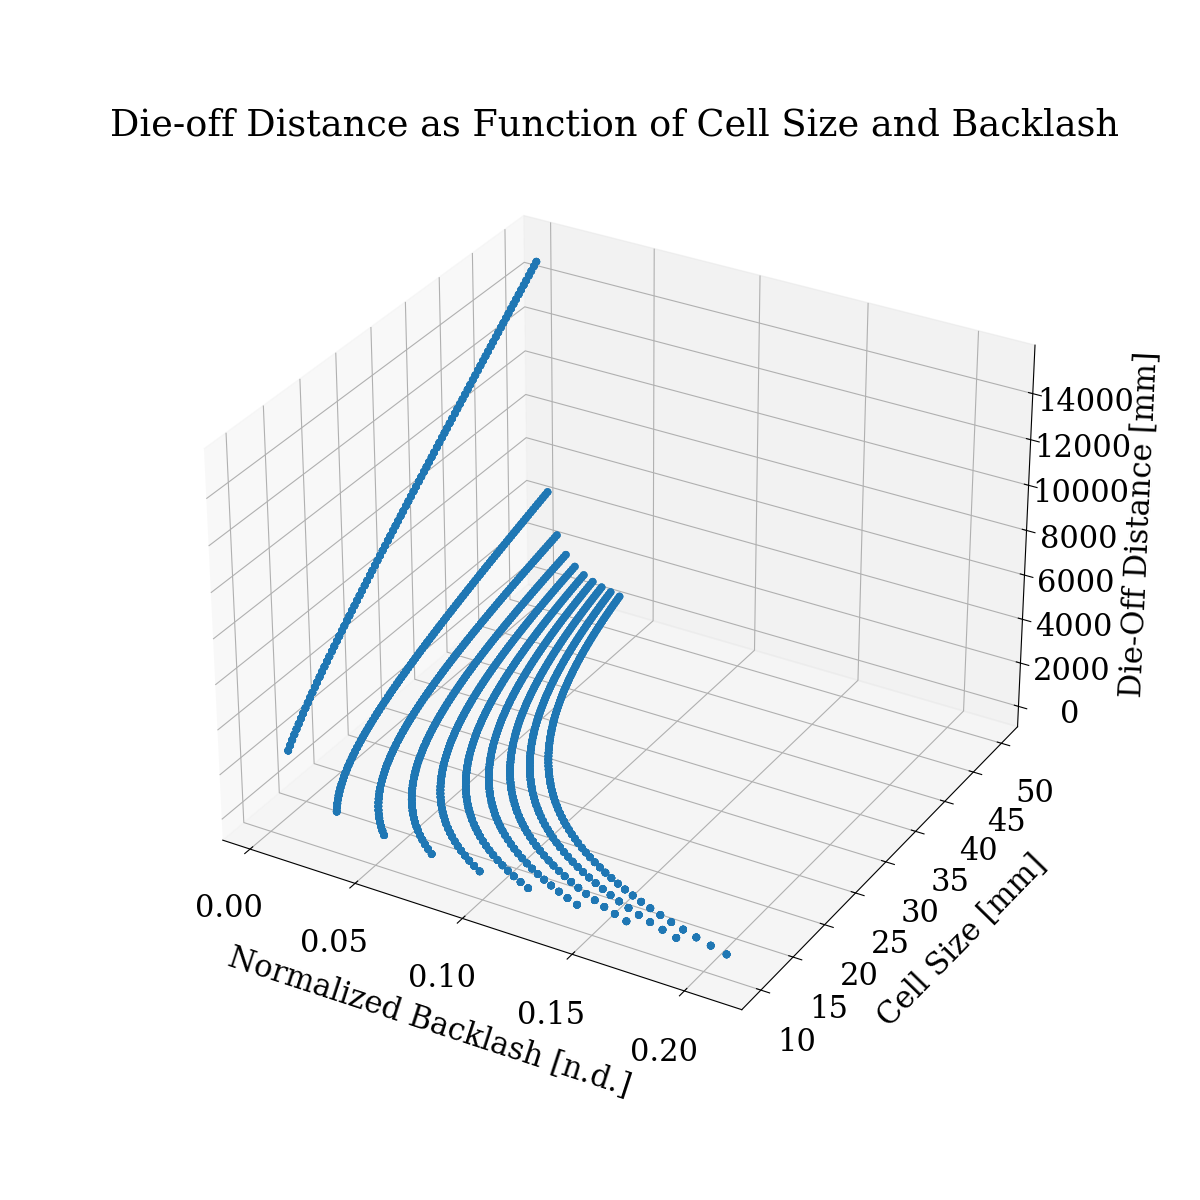
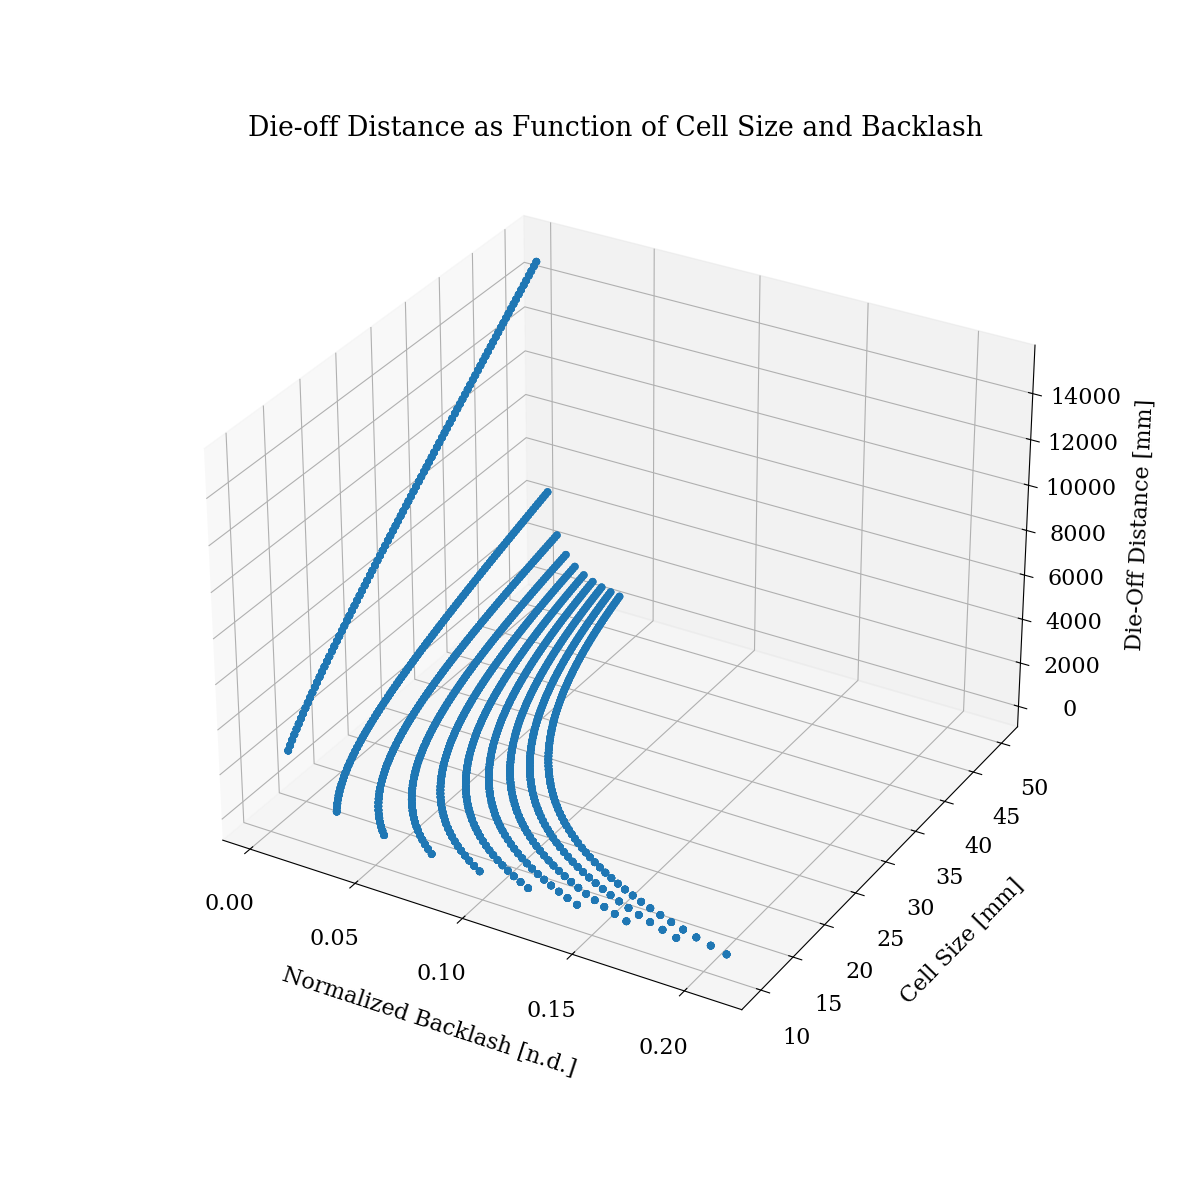
dofs figure update

diff --git a/main_1D_dofs.py b/main_1D_dofs.py
@@ -1,10 +1,17 @@
 # Jacob Miske
 # MIT License
 import numpy as np
+import matplotlib
 import matplotlib.pyplot as plt
 
 # grabs closest number in myList to myNumber
 # min(myList, key=lambda x:abs(x-myNumber))
+
+font = {'family': 'serif',
+        'size': 16}
+csfont = {'fontname': 'Helvetica'}
+
+matplotlib.rc('font', **font)
 
 
 def main():
@@ -13,7 +20,7 @@ def main():
     :return:
     """
     # degrees of rotation range left to still be considered free dof
-    dof_range = 20 # degrees
+    dof_range = 20  # degrees
     return 0
 
 
@@ -27,7 +34,7 @@ def set_1D_chain(N, L_list, angle, fixed_dict):
     :return: x and y of each cell in chain, angle_list
     """
     # Assume fixed gap leading to 5 deg range between cells, full range is 60 deg
-    gap = 2 #degrees
+    gap = 2  # degrees
     full_range = 60
     # angle list is modified once the fixed_dict is parsed, starts fully collapsed at full_range
     angle_list = [full_range for i in range(N)]
@@ -36,9 +43,9 @@ def set_1D_chain(N, L_list, angle, fixed_dict):
     # Begin by setting full free chain, first cell at x=0, y=0
     x = [0]
     y = [0]
-    for i in range(N-1):
+    for i in range(N - 1):
         L_i = L_list[i]
-        x.append((float(np.cos(angle))*L_i) + x[i-1])
+        x.append((float(np.cos(angle)) * L_i) + x[i - 1])
         y.append(0)
     # then begin applying fixed_dict constraints and reducing angle_list elements
     for i in list(fixed_dict.keys()):
@@ -63,8 +70,8 @@ def set_1D_chain(N, L_list, angle, fixed_dict):
 
         # set upper and lower angle bounds for each element
         if count2 not in fixed_dict.keys():
-            top_angle_list.append(np.min((60, fixed_dict[closest_fixed_cell] + gap*distance_to_fixed)))
-            bottom_angle_list.append(np.max((0, fixed_dict[closest_fixed_cell] - gap*distance_to_fixed)))
+            top_angle_list.append(np.min((60, fixed_dict[closest_fixed_cell] + gap * distance_to_fixed)))
+            bottom_angle_list.append(np.max((0, fixed_dict[closest_fixed_cell] - gap * distance_to_fixed)))
         else:
             top_angle_list.append(fixed_dict[closest_fixed_cell])
             bottom_angle_list.append(fixed_dict[closest_fixed_cell])
@@ -78,7 +85,7 @@ def get_DoF_from_chain(top_angle_list, bottom_angle_list):
     :param bottom_angle_list:
     :return:
     """
-    dof_range = 20 # degrees
+    dof_range = 20  # degrees
     count_dof = 0
     for count, cell in enumerate(top_angle_list, 0):
         if (top_angle_list[count] - bottom_angle_list[count]) > dof_range:
@@ -96,7 +103,7 @@ def plot_chain(x, y, top_angle_list, bottom_angle_list):
     # plt.xlabel("X Coordinate")
     # plt.ylabel("Y Coordinate")
     # Top view
-    fig1 = plt.figure(1)
+    fig1 = plt.figure(1, figsize=(8, 8))
     ax1 = fig1.add_subplot(121, projection='3d')
     plt.xlabel("X Coordinate")
     plt.ylabel("Y Coordinate")
@@ -122,7 +129,7 @@ if __name__ == '__main__':
     N = 20
     Ls = [1, 1, 1, 1, 1, 1, 1, 1, 1, 1, 1, 1, 1, 1, 1, 1, 1, 1, 1, 1]
     angle = [10]
-    fixs_dict = {0:30, 19:40}
+    fixs_dict = {0: 30, 19: 30}
     x, y, a, ta, ba = set_1D_chain(N, Ls, angle, fixed_dict=fixs_dict)
     plot_chain(x=x, y=y, top_angle_list=ta, bottom_angle_list=ba)
     # Generate angle amplitude to DoF plot
@@ -132,7 +139,7 @@ if __name__ == '__main__':
     dof_result = []
     # run only one cell fixed
     for angle in angle_settings:
-        fixs_dict = {10:angle}
+        fixs_dict = {10: angle}
         x, y, a, ta, ba = set_1D_chain(N, Ls, angle, fixed_dict=fixs_dict)
         plot_chain(x=x, y=y, top_angle_list=ta, bottom_angle_list=ba)
         # Generate angle amplitude to DoF plot
@@ -141,11 +148,16 @@ if __name__ == '__main__':
         print("DoF Count: {}".format(dof_count))
         dof_result.append(dof_count)
 
-    plt.figure(4)
-    plt.scatter(angle_settings, dof_result)
-    plt.title("DoF Present in Serial Revolute Joints with Backlash and Select Locked Joints")
-    plt.xlabel("Angle")
-    plt.ylabel("# of DoF Based on Threshold: 20 Degrees")
+    fig = plt.figure(4, figsize=(8, 8))
+    ax = fig.add_subplot()
+    plt.stem(angle_settings, dof_result)
+    plt.title("# of DOF of Revolute Joints in Series")
+    plt.xlabel("Fixed Angle of 1st Cell in Chain ")
+    plt.ylabel("# of DoF")
     plt.xlim((0, 60))
     plt.ylim((0, 12))
+    ax.xaxis.labelpad = 10
+    ax.yaxis.labelpad = 10
+    ax.tick_params(axis='both', which='major', pad=10)
+    plt.grid()
     plt.savefig("dof_to_angle_relation 20 deg 20 cells.png")

diff --git a/main_airfoil.py b/main_airfoil.py
@@ -7,7 +7,7 @@ import matplotlib.animation as animation
 import re
 
 font = {'family' : 'serif',
-        'size'   : 22}
+        'size'   : 16}
 csfont = {'fontname':'Helvetica'}
 
 matplotlib.rc('font', **font)
@@ -258,19 +258,17 @@ def plot_b_L_maxK(b_list, L_list, max_K_list):
     :param max_K_list:
     :return:
     """
-    fig = plt.figure(figsize=(12, 12))
-    ax = fig.add_subplot(projection='3d')
-    ax.scatter(b_list, L_list, max_K_list)
-    ax.set_title("Max Curvature as Function of Cell Size and Normalized Backlash")
+    fig = plt.figure(figsize=(8, 8))
+    ax = fig.add_subplot()
+    sc = ax.scatter(b_list, L_list, c=max_K_list)
+    ax.set_title("Max Curvature given Cell Size and Backlash")
     ax.set_xlabel('Normalized Backlash [n.d.]')
     ax.set_ylabel('Cell Size [mm]')
-    ax.set_zlabel('Max Curvature [1/mm]')
-    ax.xaxis.labelpad = 30
-    ax.yaxis.labelpad = 30
-    ax.zaxis.labelpad = 30
-    ax.tick_params(axis='both', which='major', pad=15)
-    ax.view_init(elev=30, azim=60, roll=0)
-    plt.savefig("./figures/max_curvature.png")
+    ax.xaxis.labelpad = 10
+    ax.yaxis.labelpad = 10
+    ax.tick_params(axis='both', which='major', pad=10)
+    plt.colorbar(sc, label="Max Curvature [1/mm]")
+    plt.savefig("./figures/max_curvature_2d.png")
     plt.show()
     plt.close()
     return 0
@@ -284,18 +282,17 @@ def plot_b_L_dieoff(b_list, L_list, do_list):
     :param do_list:
     :return:
     """
-    fig = plt.figure(figsize=(12, 12))
-    ax = fig.add_subplot(projection='3d')
-    ax.scatter(b_list, L_list, do_list)
-    ax.set_title("Die-off Distance as Function of Cell Size and Backlash")
+    fig = plt.figure(figsize=(8, 8))
+    ax = fig.add_subplot()
+    sc = ax.scatter(b_list, L_list, c=do_list)
+    ax.set_title("Die-off Distance given Cell Size and Backlash")
     ax.set_xlabel('Normalized Backlash [n.d.]')
     ax.set_ylabel('Cell Size [mm]')
-    ax.set_zlabel('Die-Off Distance [mm]')
-    ax.xaxis.labelpad = 30
-    ax.yaxis.labelpad = 30
-    ax.zaxis.labelpad = 30
-    ax.tick_params(axis='both', which='major', pad=15)
-    plt.savefig("./figures/DO_distance.png")
+    ax.xaxis.labelpad = 10
+    ax.yaxis.labelpad = 10
+    ax.tick_params(axis='both', which='major', pad=10)
+    plt.colorbar(sc, label="Die-off [cells]")
+    plt.savefig("./figures/DO_distance_2d.png")
     plt.show()
     plt.close()
     return
@@ -329,7 +326,7 @@ if __name__ == '__main__':
     # Determine characteristic relationships
     # Take ranges for thickness, backlash, cell size [in millimeters]
     d_values = np.linspace(0.1, 1.1, 10)
-    b_values = np.linspace(0.1, 2.1, 10)
+    b_values = np.linspace(0.2, 2.1, 10)
     L_values = np.linspace(10, 50, 100)
     # 5 mm default cell size
     default_cell_size = 5
@@ -340,7 +337,7 @@ if __name__ == '__main__':
             for cell_size in L_values:
                 b_norm = get_normalized_backlash(b= backlash, L=cell_size)
                 max_k = get_max_curvature(d=thickness, b=backlash, L=cell_size)
-                do = get_die_off(d=thickness, b=backlash, L=cell_size, angle_range=60)
+                do = get_die_off(d=thickness, b=backlash, L=cell_size, angle_range=60)/cell_size
                 data.append([thickness, backlash, cell_size, b_norm, max_k, do])
     # Change data type for input array
     data_array = np.array(data)
